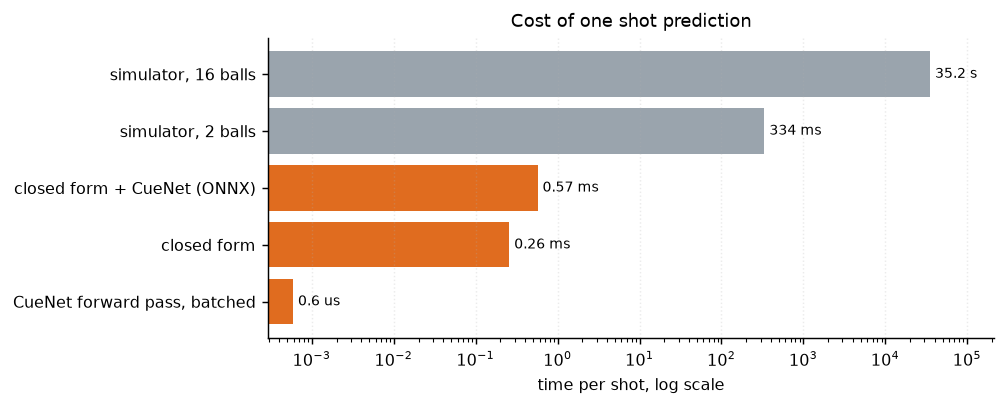
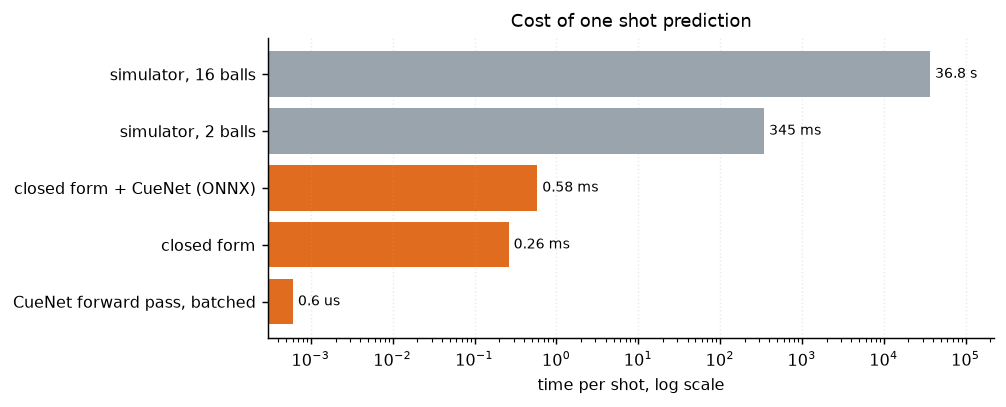
feat(ml): stratify by ball-ball contact and ablate the physics features
Two thirds of sampled shots never reach the object ball, and for those the
closed-form baseline is exactly right about it, so the headline error averages
a real problem with a trivial one. The split shows the residual model losing
to gradient boosting once a collision has to be modelled, which follows from
anchoring to a baseline that has no contact model.

The feature ablation retrains the same architecture on raw shot parameters
alone each run, so the claim that the closed-form features carry the result is
re-measured rather than remembered: 173 mm on direct shots without them,
against 114 mm for the physics alone and 97 mm with them.

Makefile now defaults to the 300 epochs behind the published metrics.

diff --git a/src/cueai/ml/train.py b/src/cueai/ml/train.py
@@ -31,7 +31,7 @@ from sklearn.preprocessing import StandardScaler
 from torch.utils.data import DataLoader, TensorDataset
 
 from cueai.ml.dataset import BASELINE_NAMES, TARGET_NAMES, generate_dataset
-from cueai.ml.features import FEATURE_NAMES, build_feature_frame
+from cueai.ml.features import BASELINE_FEATURE_NAMES, FEATURE_NAMES, build_feature_frame
 from cueai.ml.model import CueNet
 
 # Endpoint targets, in metres: (cue_x, cue_y, obj_x, obj_y)
@@ -101,6 +101,36 @@ def stratify_by_contacts(
     return rows
 
 
+def stratify_by_object_contact(
+    predictions: dict[str, np.ndarray], truth: np.ndarray, n_collision: np.ndarray
+) -> list[dict]:
+    """
+    Split accuracy by whether the cue ball ever touched the object ball.
+
+    This matters for reading the headline number honestly. Sampling aims roughly
+    half the shots at the object ball and misses often, so most shots leave it
+    where it started — and since the closed-form baseline predicts exactly that,
+    the object-ball half of the reported error is trivially satisfied for them.
+    Averaging the two subsets together would flatter every model equally; the
+    split shows what each one does when a collision actually has to be modelled.
+    """
+    rows = []
+    for label, mask in (("no", n_collision == 0), ("yes", n_collision > 0)):
+        if not mask.any():
+            continue
+        row: dict = {
+            "object_ball_contact": label,
+            "n": int(mask.sum()),
+            "share_pct": round(100.0 * float(mask.mean()), 1),
+        }
+        for name, pred in predictions.items():
+            errors = endpoint_errors(pred[mask], truth[mask])
+            row[f"{name}_cue_mm"] = errors["cue_mm"]
+            row[f"{name}_obj_mm"] = errors["obj_mm"]
+        rows.append(row)
+    return rows
+
+
 def risk_coverage(
     predictions: dict[str, np.ndarray], truth: np.ndarray, expected_cushions: np.ndarray
 ) -> list[dict]:
@@ -164,12 +194,14 @@ def train_cuenet(
     lr: float,
     seed: int,
     hidden: int = 256,
+    save: bool = True,
 ) -> tuple[np.ndarray, dict[str, float], list[float]]:
     """
     Fit the residual model, selecting the epoch on a validation split.
 
     The test split is scored exactly once, after training, so no model choice is
-    informed by it.
+    informed by it. ``save=False`` fits a throwaway model for the feature
+    ablation, so the diagnostic cannot overwrite the served artefacts.
     """
     torch.manual_seed(seed)
     fit_x, val_x, fit_base, val_base, fit_y, val_y = train_test_split(
@@ -223,18 +255,19 @@ def train_cuenet(
     with torch.no_grad():
         pred = base_test + net(torch.from_numpy(x_test_s)).numpy()
 
-    torch.save(
-        {
-            "state_dict": net.state_dict(),
-            "scaler_mean": scaler.mean_,
-            "scaler_scale": scaler.scale_,
-            "feature_names": FEATURE_NAMES,
-            "in_dim": x_train.shape[1],
-            "hidden": hidden,
-        },
-        model_dir / "cuenet.pt",
-    )
-    _export_onnx(net, x_train.shape[1], model_dir / "cuenet.onnx")
+    if save:
+        torch.save(
+            {
+                "state_dict": net.state_dict(),
+                "scaler_mean": scaler.mean_,
+                "scaler_scale": scaler.scale_,
+                "feature_names": FEATURE_NAMES,
+                "in_dim": x_train.shape[1],
+                "hidden": hidden,
+            },
+            model_dir / "cuenet.pt",
+        )
+        _export_onnx(net, x_train.shape[1], model_dir / "cuenet.onnx")
     return pred, endpoint_errors(pred, y_test), history
 
 
@@ -304,7 +337,29 @@ def main(argv: list[str] | None = None) -> dict:
         hidden=args.hidden,
     )
 
+    # Ablation: the same network, epochs and split, but without the closed-form
+    # solver's conclusions among its inputs. This is the measurement behind the
+    # claim that the features, not the architecture, are what let the residual
+    # model beat the physics on the shots physics nearly solves.
+    n_shot_features = len(FEATURE_NAMES) - len(BASELINE_FEATURE_NAMES)
+    ablation_pred, ablation, _ = train_cuenet(
+        x_train[:, :n_shot_features],
+        base_train,
+        y_train,
+        x_test[:, :n_shot_features],
+        base_test,
+        y_test,
+        model_dir,
+        epochs=args.epochs,
+        batch_size=args.batch_size,
+        lr=args.lr,
+        seed=args.seed,
+        hidden=args.hidden,
+        save=False,
+    )
+
     predictions = {"analytic": base_test, "gbm": gbm_pred, "cuenet": cuenet_pred}
+    direct = df["n_cushion"].to_numpy()[test_idx] == 0
     metrics = {
         "n_samples": len(df),
         "n_test": len(y_test),
@@ -315,9 +370,29 @@ def main(argv: list[str] | None = None) -> dict:
         "by_cushion_contacts": stratify_by_contacts(
             predictions, y_test, df["n_cushion"].to_numpy()[test_idx]
         ),
+        "by_object_ball_contact": stratify_by_object_contact(
+            predictions, y_test, df["n_collision"].to_numpy()[test_idx]
+        ),
         "risk_coverage": risk_coverage(
             predictions, y_test, x_test[:, FEATURE_NAMES.index("base_cushions")]
         ),
+        "feature_ablation": {
+            "note": (
+                "identical architecture, epochs, seed and split; the ablated model "
+                "sees only raw shot parameters, not the closed-form solver's output"
+            ),
+            "shot_features_only_mm": ablation["euclidean_mm"],
+            "with_closed_form_features_mm": cuenet["euclidean_mm"],
+            "shot_features_only_direct_mm": endpoint_errors(
+                ablation_pred[direct], y_test[direct]
+            )["euclidean_mm"],
+            "with_closed_form_features_direct_mm": endpoint_errors(
+                cuenet_pred[direct], y_test[direct]
+            )["euclidean_mm"],
+            "analytic_direct_mm": endpoint_errors(base_test[direct], y_test[direct])[
+                "euclidean_mm"
+            ],
+        },
         "error_reduction_vs_analytic_pct": round(
             100 * (1 - cuenet["euclidean_mm"] / analytic["euclidean_mm"]), 1
         ),

diff --git a/scripts/benchmark.py b/scripts/benchmark.py
@@ -183,16 +183,61 @@ def render_markdown(latency: dict, metrics: dict | None) -> str:
                 f"{row['gbm']:.0f} | {row['cuenet']:.0f} |"
             )
 
+    if metrics and metrics.get("by_object_ball_contact"):
+        lines += [
+            "",
+            "## Reading the object-ball number honestly",
+            "",
+            "Only about a third of sampled shots actually hit the object ball. For the "
+            "rest it stays where it started, which the closed-form baseline predicts "
+            "exactly, so those rows contribute almost no object-ball error to any model. "
+            "Split out, in mm:",
+            "",
+            "| Ball-ball contact | Shots | Share | Closed form cue / object | "
+            "Gradient boosting cue / object | CueNet cue / object |",
+            "|---|---:|---:|---:|---:|---:|",
+        ]
+        for row in metrics["by_object_ball_contact"]:
+            cells = " | ".join(
+                f"{row[f'{model}_cue_mm']:.0f} / {row[f'{model}_obj_mm']:.0f}"
+                for model in ("analytic", "gbm", "cuenet")
+            )
+            lines.append(
+                f"| {row['object_ball_contact']} | {row['n']} | "
+                f"{row['share_pct']:.1f}% | {cells} |"
+            )
+
+    if metrics and metrics.get("feature_ablation"):
+        ablation = metrics["feature_ablation"]
+        lines += [
+            "",
+            "## Feature ablation",
+            "",
+            "Same architecture, epochs, seed and split; the ablated model sees only raw "
+            "shot parameters, with none of the closed-form solver's conclusions. This is "
+            "the measurement behind the claim that the features carry this result:",
+            "",
+            "| CueNet inputs | All shots | Direct shots (no cushion) |",
+            "|---|---:|---:|",
+            f"| Raw shot parameters only | {ablation['shot_features_only_mm']:.0f} mm | "
+            f"{ablation['shot_features_only_direct_mm']:.0f} mm |",
+            f"| Plus closed-form output | {ablation['with_closed_form_features_mm']:.0f} mm | "
+            f"{ablation['with_closed_form_features_direct_mm']:.0f} mm |",
+            f"| _closed form alone, for reference_ | "
+            f"{metrics['models']['analytic']['euclidean_mm']:.0f} mm | "
+            f"{ablation['analytic_direct_mm']:.0f} mm |",
+        ]
+
     if metrics and metrics.get("risk_coverage"):
         lines += [
             "",
             "## Knowing which predictions to trust",
             "",
-            "The table above slices by what the simulator did, which is only knowable "
-            "after paying for the simulation. This one slices by the cushion count the "
-            "closed-form solver *expects*, which is already computed as part of making "
-            "the prediction and therefore costs nothing extra. Answering only the shots "
-            "below a threshold trades coverage for accuracy:",
+            "The cushion-contact breakdown above slices by what the simulator did, which "
+            "is only knowable after paying for the simulation. This table slices by the "
+            "cushion count the closed-form solver *expects*, which is already computed as "
+            "part of making the prediction and therefore costs nothing extra. Answering "
+            "only the shots below a threshold trades coverage for accuracy:",
             "",
             "| Expected cushions | Shots answered | Coverage | Closed form | "
             "Gradient boosting | CueNet residual |",

diff --git a/docs/BENCHMARKS.md b/docs/BENCHMARKS.md
@@ -9,11 +9,11 @@ Regenerate with `python scripts/benchmark.py`. Single CPU core, no GPU.
 
 | Method | Mean | Median | p95 | Speedup vs full rack |
 |---|---:|---:|---:|---:|
-| Numerical simulator, 16-ball rack | 35.2 s | 35.4 s | 35.5 s | — |
-| Numerical simulator, cue + object ball | 333.9 ms | 333.8 ms | 335.2 ms | 105x |
-| Closed-form solver (no ML) | 0.256 ms | 0.254 ms | 0.264 ms | 137,489x |
-| Gradient boosting on the same features | 2.5 ms | 2.5 ms | 2.6 ms | 13,997x |
-| Closed form + CueNet residual (ONNX Runtime) | 0.568 ms | 0.563 ms | 0.583 ms | 61,985x |
+| Numerical simulator, 16-ball rack | 36.8 s | 36.7 s | 37.2 s | — |
+| Numerical simulator, cue + object ball | 345.1 ms | 345.1 ms | 345.7 ms | 107x |
+| Closed-form solver (no ML) | 0.261 ms | 0.259 ms | 0.270 ms | 140,996x |
+| Gradient boosting on the same features | 2.5 ms | 2.5 ms | 2.6 ms | 14,454x |
+| Closed form + CueNet residual (ONNX Runtime) | 0.584 ms | 0.571 ms | 0.593 ms | 63,032x |
 | CueNet forward pass only, batch of 1024 (per shot) | 0.6 us | 0.6 us | 0.7 us | — |
 
 ## Accuracy on held-out shots
@@ -37,9 +37,28 @@ Resting position is a smooth function of the shot until the ball starts ricochet
 | 2 | 875 | 370 | 291 | 288 |
 | 3+ | 2061 | 708 | 522 | 531 |
 
+## Reading the object-ball number honestly
+
+Only about a third of sampled shots actually hit the object ball. For the rest it stays where it started, which the closed-form baseline predicts exactly, so those rows contribute almost no object-ball error to any model. Split out, in mm:
+
+| Ball-ball contact | Shots | Share | Closed form cue / object | Gradient boosting cue / object | CueNet cue / object |
+|---|---:|---:|---:|---:|---:|
+| no | 2704 | 67.6% | 585 / 0 | 468 / 76 | 411 / 18 |
+| yes | 1296 | 32.4% | 1032 / 797 | 638 / 606 | 738 / 701 |
+
+## Feature ablation
+
+Same architecture, epochs, seed and split; the ablated model sees only raw shot parameters, with none of the closed-form solver's conclusions. This is the measurement behind the claim that the features carry this result:
+
+| CueNet inputs | All shots | Direct shots (no cushion) |
+|---|---:|---:|
+| Raw shot parameters only | 473 mm | 173 mm |
+| Plus closed-form output | 378 mm | 97 mm |
+| _closed form alone, for reference_ | 494 mm | 114 mm |
+
 ## Knowing which predictions to trust
 
-The table above slices by what the simulator did, which is only knowable after paying for the simulation. This one slices by the cushion count the closed-form solver *expects*, which is already computed as part of making the prediction and therefore costs nothing extra. Answering only the shots below a threshold trades coverage for accuracy:
+The cushion-contact breakdown above slices by what the simulator did, which is only knowable after paying for the simulation. This table slices by the cushion count the closed-form solver *expects*, which is already computed as part of making the prediction and therefore costs nothing extra. Answering only the shots below a threshold trades coverage for accuracy:
 
 | Expected cushions | Shots answered | Coverage | Closed form | Gradient boosting | CueNet residual |
 |---|---:|---:|---:|---:|---:|
